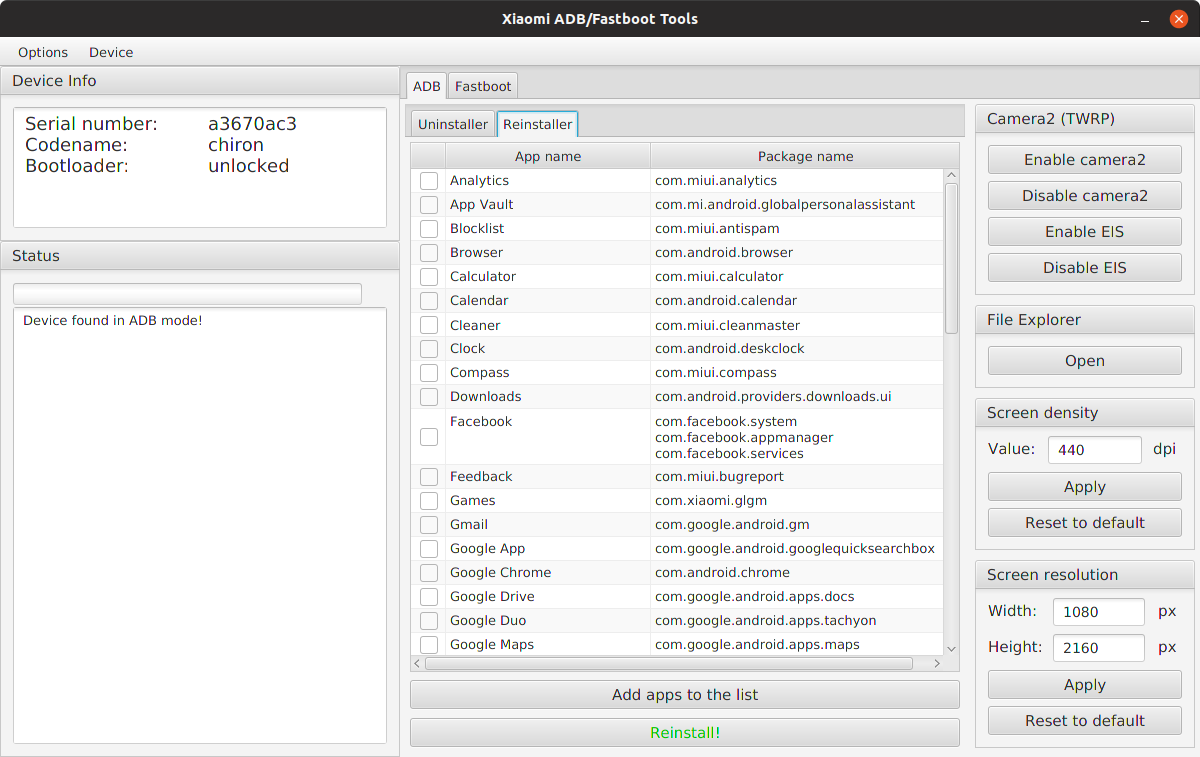
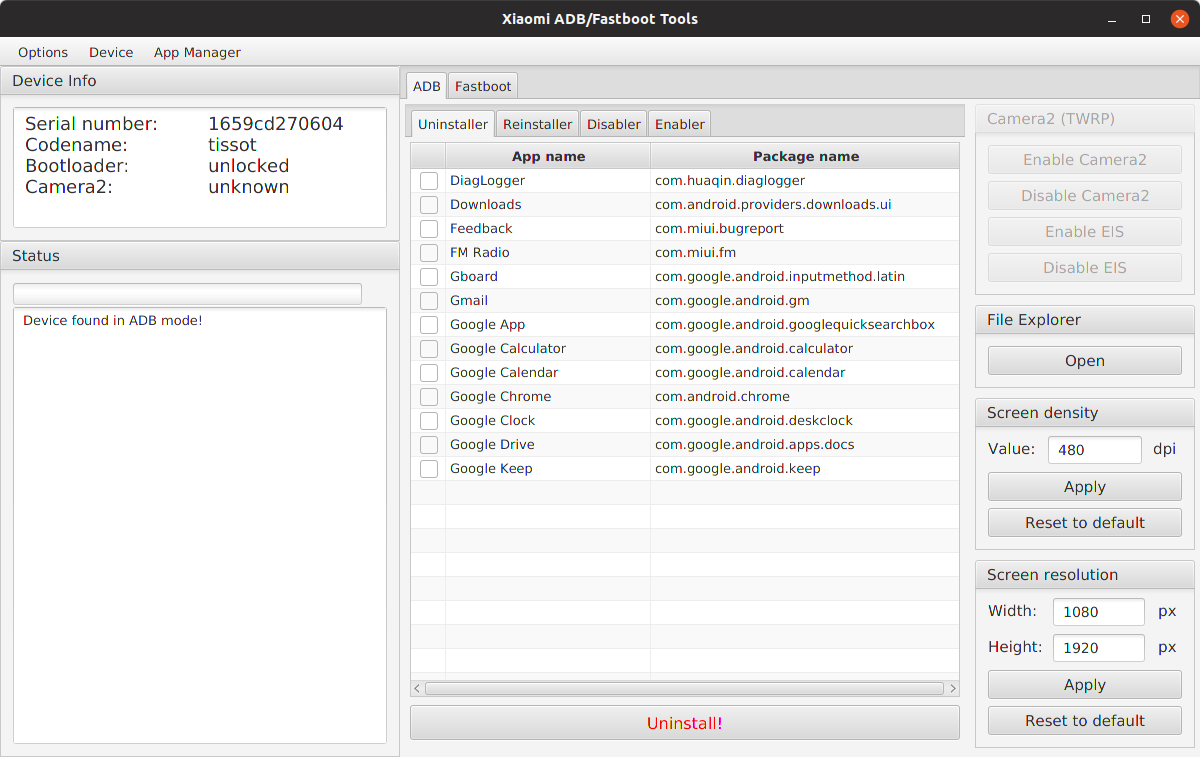
Updated readme and screenshot

diff --git a/src/main/kotlin/MainController.kt b/src/main/kotlin/MainController.kt
@@ -884,10 +884,12 @@ class MainController : Initializable {
     @FXML
     private fun disableButtonPressed(event: ActionEvent) {
         if (appManager.isAppSelected(2) && checkADB())
-            setPanels(0)
-        appManager.disable {
-            setPanels(1)
-        }
+            confirm("Disabling apps which aren't listed by default may brick your device.\nAre you sure you want to proceed?") {
+                setPanels(0)
+                appManager.disable {
+                    setPanels(1)
+                }
+            }
     }
 
     @FXML

diff --git a/src/main/kotlin/AppManager.kt b/src/main/kotlin/AppManager.kt
@@ -100,7 +100,7 @@ class AppManager(
             "Music;com.miui.player",
             "News;com.mi.globalTrendNews",
             "Notes;com.miui.notes",
-            "Package AppManager;com.miui.global.packageinstaller",
+            "Package Installer;com.miui.global.packageinstaller",
             "PAI;android.autoinstalls.config.Xiaomi.${device.codename}",
             "PartnerBookmarks;com.android.providers.partnerbookmarks",
             "PartnerNetflixActivation;com.netflix.partner.activation",

diff --git a/README.md b/README.md
@@ -6,8 +6,7 @@
 
 ## Modules
 
-* **Uninstaller** - Uninstall system apps and services on demand
-* **Reinstaller** - Reinstall removed system apps and services
+* **App Manager** - Uninstall/reinstall/disable/enable system apps and services on demand
 * **Camera2** - Enable Camera2 and EIS (TWRP required)
 * **File Explorer** - Transfer files between a device and a computer using ADB
 * **Screen density** - Tweak screen density by overriding the DPI value
@@ -23,7 +22,7 @@
 
 ## Download the executable JAR from [here](https://github.com/Saki-EU/XiaomiADBFastbootTools/releases/latest).
 
-**Warning: Use the program at your own risk. Removing apps which aren't listed in the Uninstaller by default may brick your device.**
+**Warning: Use the program at your own risk!**
 
 ## Instructions
 
